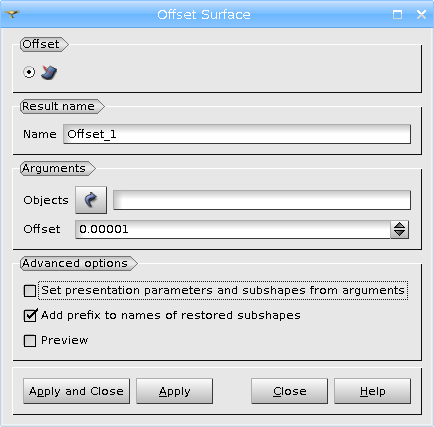
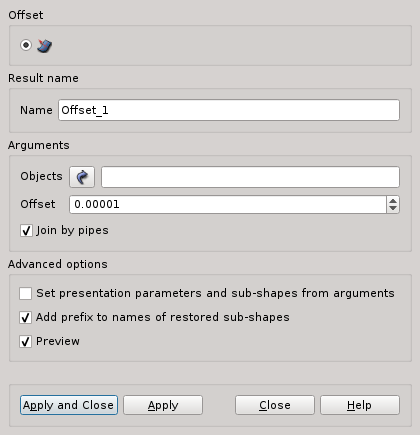
GPUSPHGUI: add an option to Offset Surface opreation definig a mode of filling the gap between adjacent translated surfaces:  - by pipes or  - by intersection

diff --git a/src/GEOMGUI/GEOM_msg_en.ts b/src/GEOMGUI/GEOM_msg_en.ts
@@ -7817,6 +7817,13 @@ Do you want to create new material?</translation>
     </message>
 </context>
 <context>
+    <name>TransformationGUI_OffsetDlg</name>
+    <message>
+        <source>GEOM_JOIN_BY_PIPES</source>
+        <translation>Join by pipes</translation>
+    </message>
+</context>
+<context>
     <name>OperationGUI_ExtractionDlg</name>
     <message>
         <source>GEOM_EXTRACT_TITLE</source>

diff --git a/src/GEOM_I/GEOM_Gen_i.cc b/src/GEOM_I/GEOM_Gen_i.cc
@@ -313,6 +313,8 @@ SALOMEDS::SObject_ptr GEOM_Gen_i::PublishInStudy(SALOMEDS::Study_ptr   theStudy,
       aResultSO->SetAttrString("AttributePixMap","ICON_OBJBROWSER_GROUP_SOLID");
       aNamePrefix = "Group_Of_Solids_";
       break;
+    default:
+      aNamePrefix = "Group_";
     }
   } else if ( mytype == GEOM_MARKER ) {
     aResultSO->SetAttrString("AttributePixMap","ICON_OBJBROWSER_LCS");
@@ -2548,7 +2550,7 @@ GEOM::GEOM_Object_ptr GEOM_Gen_i::AddSubShape (GEOM::GEOM_Object_ptr   theMainSh
   if (aMainShape.IsNull()) return GEOM::GEOM_Object::_nil();
 
   Handle(TColStd_HArray1OfInteger) anArray = new TColStd_HArray1OfInteger(1, theIndices.length());
-  for(Standard_Integer i = 0; i<theIndices.length(); i++) anArray->SetValue(i+1, theIndices[i]);
+  for(CORBA::ULong i = 0; i<theIndices.length(); i++) anArray->SetValue(i+1, theIndices[i]);
 
   Handle(::GEOM_Object) anObject = _impl->AddSubShape(aMainShape, anArray, true);
   if(anObject.IsNull()) return GEOM::GEOM_Object::_nil();
@@ -2933,7 +2935,7 @@ void GEOM_Gen_i::Move( const GEOM::object_list& what,
     }
   }
 
-  for ( int i = 0; i < what.length(); i++ ) {
+  for ( CORBA::ULong i = 0; i < what.length(); i++ ) {
     SALOMEDS::SObject_var sobj = what[i];
     if ( CORBA::is_nil( sobj ) ) continue; // skip bad object
     // insert the object to the use case tree
@@ -2954,7 +2956,7 @@ SALOMEDS::TMPFile* GEOM_Gen_i::GetDependencyTree( SALOMEDS::Study_ptr theStudy,
   GEOMUtils::TreeModel tree;
 
   std::string entry;
-  for ( int i = 0; i < theObjectEntries.length(); i++ ) {
+  for ( CORBA::ULong i = 0; i < theObjectEntries.length(); i++ ) {
     // process objects one-by-one
     entry = theObjectEntries[i].in();
     GEOM::GEOM_BaseObject_var anObj = GetObject( theStudy->StudyId(), entry.c_str() );
@@ -2997,7 +2999,7 @@ void GEOM_Gen_i::getUpwardDependency( GEOM::GEOM_BaseObject_ptr gbo,
   GEOMUtils::NodeLinks anEntries;
   GEOMUtils::LevelInfo aLevelMap;
   if ( level > 0 ) {
-    if ( level-1 >= upLevelList.size() ) {
+    if ( level-1 >= (int)upLevelList.size() ) {
       // create a new map
       upLevelList.push_back( aLevelMap );
     } else {
@@ -3011,7 +3013,7 @@ void GEOM_Gen_i::getUpwardDependency( GEOM::GEOM_BaseObject_ptr gbo,
   // get objects on that the current one depends
   GEOM::ListOfGBO_var depList = gbo->GetDependency();
   std::string aDepEntry;
-  for( int j = 0; j < depList->length(); j++ ) {
+  for( CORBA::ULong j = 0; j < depList->length(); j++ ) {
     if ( depList[j]->_is_nil() )
       continue;
     aDepEntry = depList[j]->GetEntry();
@@ -3067,7 +3069,7 @@ void GEOM_Gen_i::getDownwardDependency( GEOM::GEOM_BaseObject_ptr gbo,
         continue;
       std::string aGoEntry = geomObj->GetEntry();
       // go through dependencies of current object to check whether it depends on the given object
-      for( int i = 0; i < depList->length(); i++ ) {
+      for( CORBA::ULong i = 0; i < depList->length(); i++ ) {
         if ( depList[i]->_is_nil() )
           continue;
         if ( depList[i]->_is_equivalent( gbo ) ) {
@@ -3081,7 +3083,7 @@ void GEOM_Gen_i::getDownwardDependency( GEOM::GEOM_BaseObject_ptr gbo,
           GEOMUtils::NodeLinks anEntries;
           GEOMUtils::LevelInfo aLevelMap;
           anEntries.push_back( aGboEntry );
-          if ( level >= downLevelList.size() ) {
+          if ( level >= (int)downLevelList.size() ) {
             downLevelList.push_back( aLevelMap );
           } else {
             aLevelMap = downLevelList.at(level);
@@ -3105,13 +3107,13 @@ void GEOM_Gen_i::getDownwardDependency( GEOM::GEOM_BaseObject_ptr gbo,
 // purpose  : Fills 3 lists that is used to clean study of redundant objects
 //==============================================================================
 void GEOM_Gen_i::GetEntriesToReduceStudy(SALOMEDS::Study_ptr theStudy,
-                                        GEOM::string_array& theSelectedEntries,
-                                        GEOM::string_array& theParentEntries,
-                                        GEOM::string_array& theSubEntries,
-                                        GEOM::string_array& theOtherEntries)
+                                         GEOM::string_array& theSelectedEntries,
+                                         GEOM::string_array& theParentEntries,
+                                         GEOM::string_array& theSubEntries,
+                                         GEOM::string_array& theOtherEntries)
 {
   std::set<std::string> aSelected, aParents, aChildren, anOthers;
-  for ( int i = 0; i < theSelectedEntries.length(); i++ ) {
+  for ( CORBA::ULong i = 0; i < theSelectedEntries.length(); i++ ) {
     aSelected.insert( CORBA::string_dup( theSelectedEntries[i] ) );
   }
 
@@ -3237,7 +3239,7 @@ void GEOM_Gen_i::includeParentDependencies(GEOM::GEOM_BaseObject_ptr geomObj,
     return;
   // go through dependencies of current object to check whether it depends on the given object
   std::string aDepEntry;
-  for( int i = 0; i < depList->length(); i++ ) {
+  for( CORBA::ULong i = 0; i < depList->length(); i++ ) {
     aDepEntry = depList[i]->GetEntry();
     if ( depList[i]->_is_nil() ||
          aDepEntry == anEntry ||             // skip self-depending

diff --git a/src/GEOM_SWIG/geomBuilder.py b/src/GEOM_SWIG/geomBuilder.py
@@ -9228,14 +9228,15 @@ class geomBuilder(object, GEOM._objref_GEOM_Gen):
             """
             theOffset, Parameters = ParseParameters(theOffset)
             if theCopy:
-                anObj = self.TrsfOp.OffsetShapeCopy(theObject, theOffset)
+                anObj = self.TrsfOp.OffsetShapeCopy(theObject, theOffset, True)
             else:
-                anObj = self.TrsfOp.OffsetShape(theObject, theOffset)
+                anObj = self.TrsfOp.OffsetShape(theObject, theOffset, True)
             RaiseIfFailed("Offset", self.TrsfOp)
             anObj.SetParameters(Parameters)
             return anObj
 
-        ## Create new object as offset of the given one.
+        ## Create new object as offset of the given one. Gap between two adjacent
+        #  offset surfaces is filled by a pipe.
         #  @param theObject The base object for the offset.
         #  @param theOffset Offset value.
         #  @param theName Object name; when specified, this parameter is used
@@ -9244,11 +9245,13 @@ class geomBuilder(object, GEOM._objref_GEOM_Gen):
         #
         #  @return New GEOM.GEOM_Object, containing the offset object.
         #
+        #  @sa MakeOffsetIntersectionJoin
         #  @ref tui_offset "Example"
         @ManageTransactions("TrsfOp")
         def MakeOffset(self, theObject, theOffset, theName=None):
             """
-            Create new object as offset of the given one.
+            Create new object as offset of the given one. Gap between adjacent
+            offset surfaces is filled by a pipe.
 
             Parameters:
                 theObject The base object for the offset.
@@ -9267,7 +9270,48 @@ class geomBuilder(object, GEOM._objref_GEOM_Gen):
             """
             # Example: see GEOM_TestAll.py
             theOffset, Parameters = ParseParameters(theOffset)
-            anObj = self.TrsfOp.OffsetShapeCopy(theObject, theOffset)
+            anObj = self.TrsfOp.OffsetShapeCopy( theObject, theOffset, True )
+            RaiseIfFailed("OffsetShapeCopy", self.TrsfOp)
+            anObj.SetParameters(Parameters)
+            self._autoPublish(anObj, theName, "offset")
+            return anObj
+
+        ## Create new object as offset of the given one. Gap between adjacent
+        #  offset surfaces is filled by extending and intersecting them.
+        #  @param theObject The base object for the offset.
+        #  @param theOffset Offset value.
+        #  @param theName Object name; when specified, this parameter is used
+        #         for result publication in the study. Otherwise, if automatic
+        #         publication is switched on, default value is used for result name.
+        #
+        #  @return New GEOM.GEOM_Object, containing the offset object.
+        #
+        #  @sa MakeOffset
+        #  @ref tui_offset "Example"
+        @ManageTransactions("TrsfOp")
+        def MakeOffsetIntersectionJoin(self, theObject, theOffset, theName=None):
+            """
+            Create new object as offset of the given one. Gap between adjacent
+            offset surfaces is filled by extending and intersecting them.
+
+            Parameters:
+                theObject The base object for the offset.
+                theOffset Offset value.
+                theName Object name; when specified, this parameter is used
+                        for result publication in the study. Otherwise, if automatic
+                        publication is switched on, default value is used for result name.
+
+            Returns:
+                New GEOM.GEOM_Object, containing the offset object.
+
+            Example of usage:
+                 box = geompy.MakeBox(20, 20, 20, 200, 200, 200)
+                 # create a new box extended by 70
+                 offset = geompy.MakeOffsetIntersectionJoin(box, 70.)
+            """
+            # Example: see GEOM_TestAll.py
+            theOffset, Parameters = ParseParameters( theOffset )
+            anObj = self.TrsfOp.OffsetShapeCopy( theObject, theOffset, False )
             RaiseIfFailed("OffsetShapeCopy", self.TrsfOp)
             anObj.SetParameters(Parameters)
             self._autoPublish(anObj, theName, "offset")

diff --git a/src/GEOM_I/GEOM_ITransformOperations_i.cc b/src/GEOM_I/GEOM_ITransformOperations_i.cc
@@ -609,9 +609,10 @@ GEOM::GEOM_Object_ptr GEOM_ITransformOperations_i::MirrorPointCopy
  *  OffsetShape
  */
 //=============================================================================
-GEOM::GEOM_Object_ptr GEOM_ITransformOperations_i::OffsetShape
-                                             (GEOM::GEOM_Object_ptr theObject,
-                                              CORBA::Double theOffset)
+GEOM::GEOM_Object_ptr
+GEOM_ITransformOperations_i::OffsetShape (GEOM::GEOM_Object_ptr theObject,
+                                          CORBA::Double         theOffset,
+                                          CORBA::Boolean        theJoinByPipes)
 {
   GEOM::GEOM_Object_var aGEOMObject = GEOM::GEOM_Object::_duplicate(theObject);
 
@@ -631,7 +632,7 @@ GEOM::GEOM_Object_ptr GEOM_ITransformOperations_i::OffsetShape
   if (aBasicObject.IsNull()) return aGEOMObject._retn();
 
   //Create the offset shape
-  GetOperations()->OffsetShape(aBasicObject, theOffset);
+  GetOperations()->OffsetShape( aBasicObject, theOffset, theJoinByPipes );
 
   // Update GUI.
   UpdateGUIForObject(theObject);
@@ -644,9 +645,10 @@ GEOM::GEOM_Object_ptr GEOM_ITransformOperations_i::OffsetShape
  *  OffsetShapeCopy
  */
 //=============================================================================
-GEOM::GEOM_Object_ptr GEOM_ITransformOperations_i::OffsetShapeCopy
-                                             (GEOM::GEOM_Object_ptr theObject,
-                                              CORBA::Double theOffset)
+GEOM::GEOM_Object_ptr
+GEOM_ITransformOperations_i::OffsetShapeCopy (GEOM::GEOM_Object_ptr theObject,
+                                              CORBA::Double         theOffset,
+                                              CORBA::Boolean        theJoinByPipes)
 {
   GEOM::GEOM_Object_var aGEOMObject;
 
@@ -658,7 +660,8 @@ GEOM::GEOM_Object_ptr GEOM_ITransformOperations_i::OffsetShapeCopy
   if (aBasicObject.IsNull()) return aGEOMObject._retn();
 
   //Create the offset shape
-  Handle(::GEOM_Object) anObject = GetOperations()->OffsetShapeCopy(aBasicObject, theOffset);
+  Handle(::GEOM_Object) anObject =
+    GetOperations()->OffsetShapeCopy(aBasicObject, theOffset, theJoinByPipes);
   if (!GetOperations()->IsDone() || anObject.IsNull())
     return aGEOMObject._retn();
 

diff --git a/src/TransformationGUI/TransformationGUI_OffsetDlg.h b/src/TransformationGUI/TransformationGUI_OffsetDlg.h
@@ -57,6 +57,7 @@ private:
   void                               Init();
   void                               enterEvent( QEvent* );
   double                             GetOffset() const;
+  bool                               GetIsJoinByPipes() const;
     
 private:
   QList<GEOM::GeomObjPtr>            myObjects;
@@ -70,7 +71,7 @@ private slots:
   void                               SelectionIntoArgument();
   void                               SetEditCurrentArgument();
   void                               ValueChangedInSpinBox();
-  void                               CreateCopyModeChanged();
+  void                               JoinModeChanged();
 };
 
 #endif // TRANSFORMATIONGUI_OFFSETDLG_H

diff --git a/doc/salome/examples/transformation_operations_ex06.py b/doc/salome/examples/transformation_operations_ex06.py
@@ -11,13 +11,16 @@ gg = salome.ImportComponentGUI("GEOM")
 box = geompy.MakeBox(20, 20, 20, 200, 200, 200)
 
 # create a new object as offset of the given object
-offset = geompy.MakeOffset(box, 70.)
+offset  = geompy.MakeOffset(box, 70.)
+offset2 = geompy.MakeOffsetIntersectionJoin(box, 70.)
 
 # add objects in the study
 id_box = geompy.addToStudy(box, "Box")
 id_offset = geompy.addToStudy(offset, "Offset")
+id_offset2 = geompy.addToStudy(offset2, "Offset_intersection_join")
 
 # display the results
 gg.createAndDisplayGO(id_box)
 gg.setDisplayMode(id_box,1)
-gg.createAndDisplayGO(id_offset) 
+gg.createAndDisplayGO(id_offset)
+gg.createAndDisplayGO(id_offset2)

diff --git a/src/XAOPlugin/XAOPlugin_IOperations_i.cc b/src/XAOPlugin/XAOPlugin_IOperations_i.cc
@@ -74,7 +74,7 @@ CORBA::Boolean XAOPlugin_IOperations_i::ExportXAO( GEOM::GEOM_Object_ptr shape,
   Handle(GEOM_Object) reference = GetObjectImpl( shape );
 
   // Get the reference groups
-  int ind = 0;
+  CORBA::ULong ind = 0;
   std::list<Handle(GEOM_Object)> groupsObj;
   for (; ind < groups.length(); ind++)
   {
